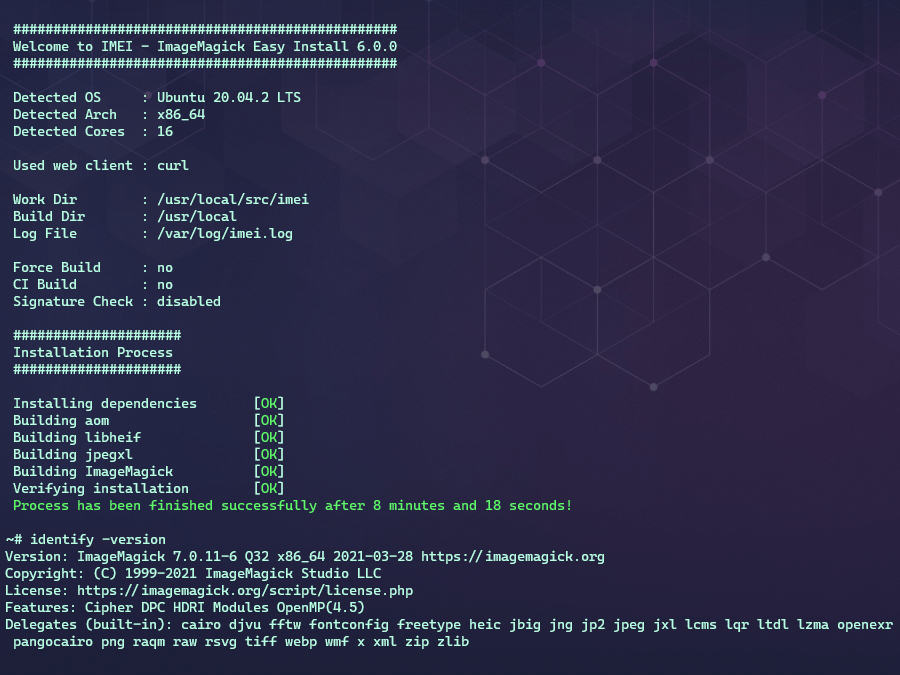
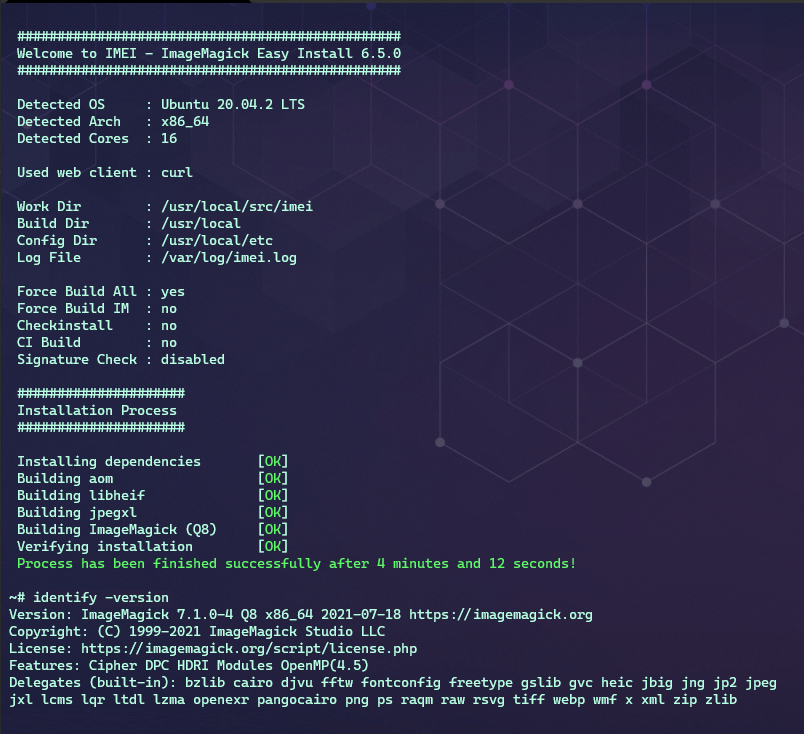
Version 6.5.0
- Added new option --imagemagick-quantum-depth / --im-q
- Applied small optimizations
- Updated README

Changed region(s): [[0.0, 0.0, 0.995, 0.9644], [0.7774, 0.0933, 0.8085, 0.1244], [0.5286, 0.5911, 0.5597, 0.6222]]

diff --git a/README.md b/README.md
@@ -112,6 +112,8 @@ Currently available build options are
 
 * `--skip-dependencies` / `--skip-deps` : Skip installation of dependencies
 * `--imagemagick-version` / `--im-version` : Build the given ImageMagick version (e.g. `7.0.10-28`)
+* `--force-imagemagick` / `--force-im` : Force building of ImageMagick only, even if it's are already installed in a newer or the latest version
+* `--imagemagick-quantum-depth` / `--im-q` : ImageMagick Quantum Depth (8, 16 or 32)
 * `--aom-version` : Build the given aom version (e.g. `2.0.0`)
 * `--skip-aom` : Skip building aom
 * `--libheif-version` / `--heif-version` : Build the given libheif version (e.g. `1.8.0`)
@@ -123,7 +125,6 @@ Currently available build options are
 * `--build-dir` : Build target directory for ImageMagick
 * `--config-dir` : Config target directory for ImageMagick
 * `--force` : Force building of components, even if they are already installed in a newer or the latest version
-* `--force-imagemagick` / `--force-im` : Force building of ImageMagick only, even if it's are already installed in a newer or the latest version
 
 Additional options / switches:
 
@@ -135,6 +136,7 @@ Additional options / switches:
 
 <!-- versions start -->
 * ImageMagick version: `7.1.0-4`
+* ImageMagick Quantum Depth: `8`
 * libaom version: `3.1.2`
 * libheif version: `1.12.0`
 * libjxl version: `0.3.7`<!-- versions end -->
